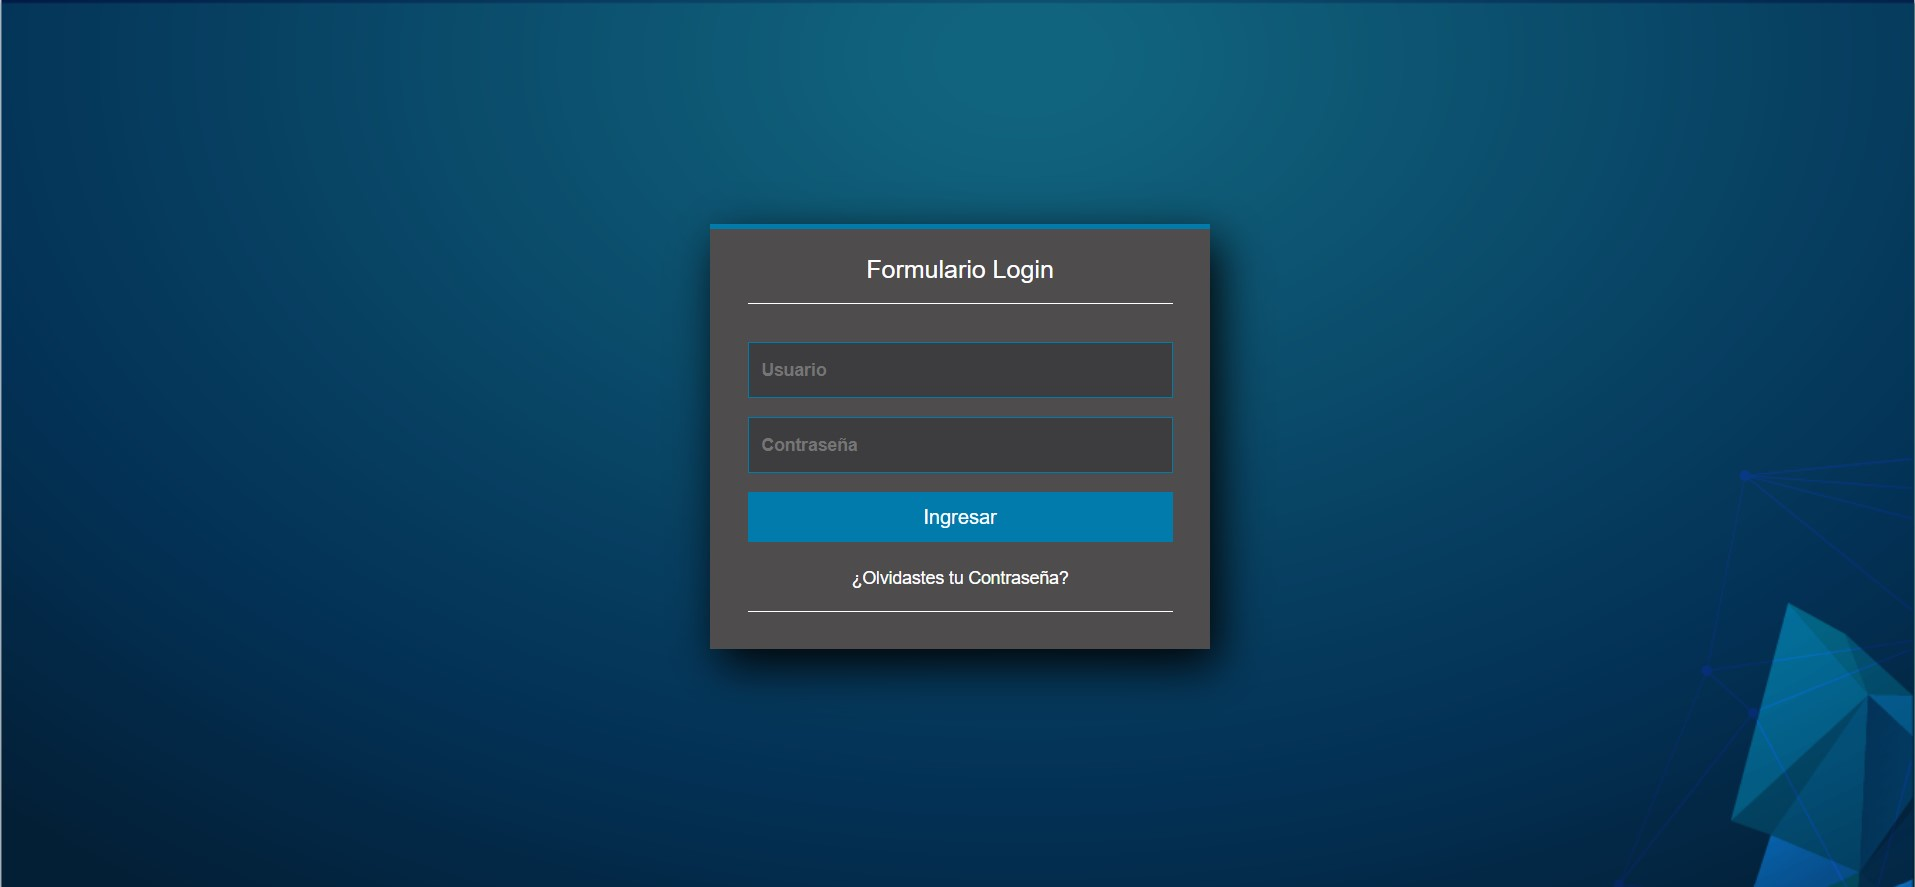
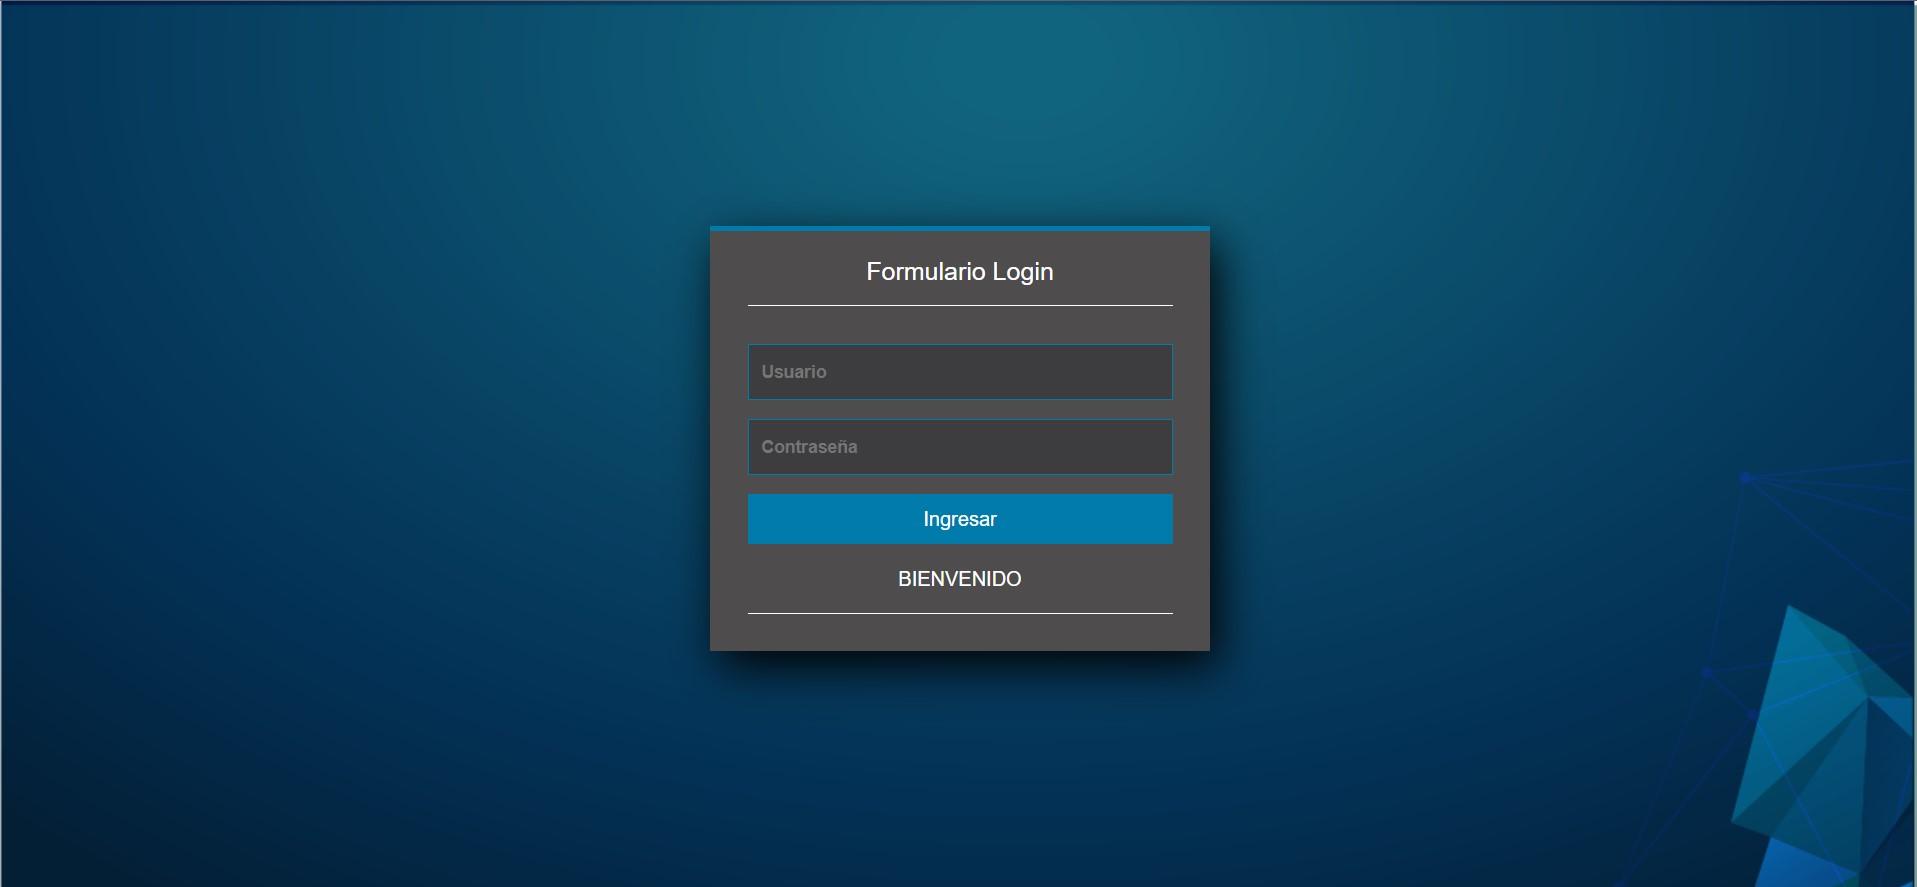
Markdown actualizado

diff --git a/client/src/app/Components/navegation/navegation.component.html b/client/src/app/Components/navegation/navegation.component.html
@@ -1,6 +1,6 @@
 <nav class="navbar navbar-expand-lg navbar navbar-dark bg-dark">
     <div class="container-fluid">
-        <a class="navbar-brand" href="#">Proyecto 2</a>
+        <a class="navbar-brand">Proyecto 2</a>
         <button class="navbar-toggler" type="button" data-bs-toggle="collapse" data-bs-target="#navbarSupportedContent"
             aria-controls="navbarSupportedContent" aria-expanded="false" aria-label="Toggle navigation">
             <span class="navbar-toggler-icon"></span>

diff --git a/client/src/app/Components/login/login.component.html b/client/src/app/Components/login/login.component.html
@@ -13,7 +13,7 @@
       <input class="controls" type="text" [(ngModel)]="nombreUsuario" value="" placeholder="Usuario" style="color:aliceblue">
       <input class="controls" type="password" [(ngModel)]="passwordUsuario" value="" placeholder="Contraseña" style="color:aliceblue">
       <input class="buttons" type="submit" name="submit" value="Ingresar" id="button-addon1" (click)="Login()">
-      <p><a href="#">¿Olvidastes tu Contraseña?</a></p>
+      <p>BIENVENIDO </p>
 
     </section>
 

diff --git a/client/src/app/Components/tarjetas/tarjetas.component.html b/client/src/app/Components/tarjetas/tarjetas.component.html
@@ -1,4 +1,4 @@
-<div class="card card border-success" style="width: 18rem;">
+<div class="card border-success text-bg-light mb-3 zoom" style="width: 18rem;" >
     
     <img src={{[DatoJugadorEspecifico.Imagen]}} class="card-img-top" alt="...">
     <div class="card-body ">

diff --git a/client/src/app/Components/tarjetas/tarjetas.component.css b/client/src/app/Components/tarjetas/tarjetas.component.css
@@ -1,0 +1,6 @@
+.zoom{
+	transition: transform 0.5s;
+}
+.zoom:hover{
+	transform: scale(1.2);	
+}

diff --git a/README.md b/README.md
@@ -8,19 +8,29 @@
 
 ## Fronted 
 
-<p style='text-align: justify;'> Las tegnologias implementadas para el funcionamiento de Angular fue Anfular, en la cual es un framewrok de javascrip de codigo abierto escrito en Typescript, la cual nos ayuda desarrolar aplicaciones. Encargandose Google del mantenimiento y las mejoras del mismo. Ademas de su Angular cli el cual permite crear proyectos en los que el CLI podrá añadir archivos y más exactamente, entidades Angular. Será posible añadir módulos, componentes, servicios o directivas en una línea de comandos.</p>
+<p style='text-align: justify;'> Las tegnologias implementadas para el funcionamiento de Angular fue Anfular, en la cual es un framewrok de javascrip de codigo abierto escrito en Typescript, la cual nos ayuda desarrolar aplicaciones. Encargandose Google del mantenimiento y las mejoras del mismo. Ademas de su Angular cli el cual permite crear proyectos en los que el CLI podrá añadir archivos y más exactamente, entidades Angular. Será posible añadir módulos, componentes, servicios o directivas en una línea de comandos. Tambien contiene lenguaje en HTML y CSS, como tambien se utilizo Boostrap, para agregar las tarejtas y la barra de navegación</p>
 
+### Servicios
+
+<p style='text-align: justify;'> Los servicios responden a la entarda que interactuan con el modelo, es decir a los modelos de jugadores y de los usuarios los cual declaramos desde nuestro backend</p>
+
+* Usuarios: en esto responde a todos los usuarios los cuales declaramos, en lso cuales usamos 2 predeterminados y uno agrado por mi.
+* Jugadores: en esto responde a todos los jugadores en los cuales tambien tendremos que separarlos segun los endpoints declarados, los cuales se encuentran la region, seleccion, nombre y todos.
 
 ### Login 
 
 <p style='text-align: justify;'> El login muestra una interfaz en la cual nos permite loguearnos con cualquiera de nuestros 3 diferentes usuarios. Asimismo nos mostrara cuando se ccuentren vacios los campos, o que el usuario o contraseña esten mal ingresados. </p>
-
+ 
 
 ![Login](Imagenes/Login.jpg)
+
+### Menu
 
 <p style='text-align: justify;'> Asimismo se presenta un menu en el cual podemos seleccionar de donde pais, region o nombre deseamos que se busque y un boton de cerrar cesion</p>
 
 ![Menu](Imagenes/Menu.jpg)
+
+En la barra de donde podemos seleccionar que queremos buscar si es Region, Selccion o Nombre, ademas de contar con una texto en la cual nos permite buscar por tecto los diferentes datos que nosotros deseamos buscar. Contando tambien con un boton del cierre de sesion.
 
 ## Backend
 
@@ -30,12 +40,16 @@
 
 <p style='text-align: justify;'> A continuacion se meustran los endpiont en los cuales se accedera a la informacion desde la API_URI para que se puedan compartir informacion </p>
 
+* Todos llama a todos los jugadores agregados, es decir a los 20 jugadores con 5 diferentes selecciones
+* Nombre/Nombre llama al nombre y recibe como parametro un String en el cual podemos declarar cual es jugador especifico a llamar
+* Seleccion/Seleccione llama al nombre y recibe como parametro un String en el cual podemos declarar cual es jugador especifico a llamar
+* Region/Region llama al nombre y recibe como parametro un String en el cual podemos declarar cual es jugador especifico a llama
+
+A continuacion se presenta en codigo los endpois en los cuales se les hace el llamado a cada uno de los parametros a llamar 
+
 ```
 config(): void {
-        // this.router.get('/informacion',(reg,res) =>{res.send("Hola")});
-        this.router.get('/todos', (req, res) => {
-            res.send(Mundial);
-        });
+        
         this.router.get('/Nombre/:Nombre', (req, res) => {
             const jugadorn = this.infojugador(req.params.Nombre, 1)
             res.send(jugadorn); // se debe mandar parametro para saber que se quiere mandar
